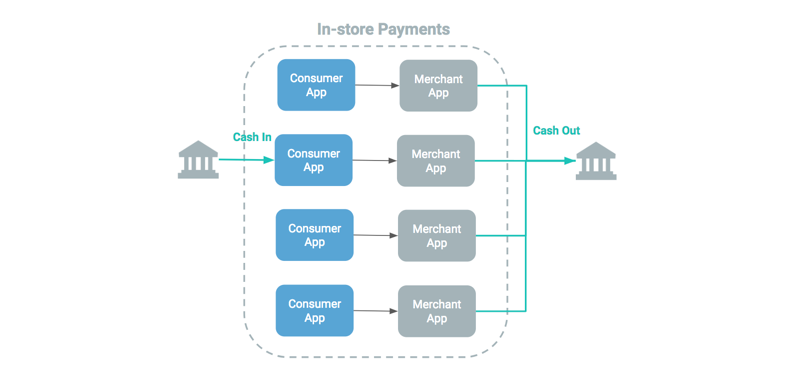
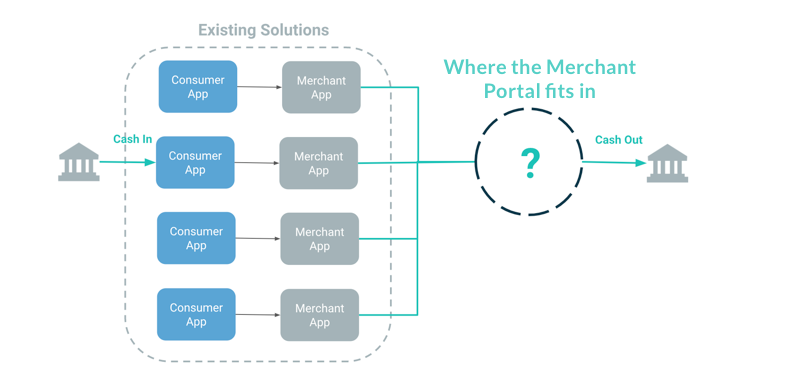
retail image

Changed region(s): [[0.0608, 0.0577, 0.881, 0.895], [0.1823, 0.9239, 0.6076, 0.9528], [0.6987, 0.5197, 0.7291, 0.5486]]

diff --git a/work/retail.html b/work/retail.html
@@ -92,15 +92,15 @@
       
       <h2 id="background">Background</h2>
       <p>MintChip is a digital currency that provides the underlying system to facilitate the exchange of value between two parties in real-time without intermediaries. <span><a href="https://www.youtube.com/watch?time_continue=5&v=RFYkREL6acU" target="_blank">Forbe has a video explaining how MintChip works.</a></span><br><br>
-      The nanopay retail solution consists of two parts: P2P payments between consumer apps and In-store payments between consumer and merchant apps.</p>
+      Back to 2016, the nanopay's retail solution bridging consuemrs and merchants was working fine, when the merchant only has one device. However, when more than one devices were adopted, problems start to arise. There is no connection between different devices, which causes repetitive work like cashing out, connecting bank account and manage transactions.</p>
       <figure>
-        <img src="../img/1-1-1.png" srcset="../img/1-1-1@2x.png 2x, ../img/1-1-1@3x.png 3x" alt="nanopay retail structure with one merchant app">
-        <figcaption>1-1-1 / nanopay retail structure in 2016</figcaption>
+        <img src="../img/1-1-1.png" srcset="../img/1-1-1@2x.png 2x, ../img/1-1-1@3x.png 3x" alt="nanopay retail structure with one and multiple merchant apps">
+        <figcaption>1-1-1 / nanopay retail solution with one device in 2016, and multiple devices in 2017</figcaption>
       </figure>
-      <p>When the merchant only has one device, it seems everything works fine. However, when more than one devices are adopted, problems start to arise. There is no connection between different devices, which causes repetitive work like cashing out, connecting bank account and manage transactions.</p>
+      <p>Therefore, we decided to create a gateway to connect all the merchant apps, to make the merchant's life easier.</p>
       <figure class="gap">
-        <img src="../img/1-1-2.png" srcset="../img/1-1-2@2x.png 2x, ../img/1-1-2@3x.png 3x" alt="nanopay retail structure with multiple devices">
-        <figcaption>1-1-2 / nanopay retail structure in 2017. Merchant devices including merchant apps on iPad, iPhone and Ingenico terminal</figcaption>
+        <img src="../img/1-1-2.png" srcset="../img/1-1-2@2x.png 2x, ../img/1-1-2@3x.png 3x" alt="The merchant portal is a gateway">
+        <figcaption>1-1-2 / Merchant devices including merchant apps on iPad, iPhone and Ingenico terminals. This question mark shows where the merchant portal should fit in.</figcaption>
       </figure>
       
       <h2 id="problem">A Deeper Dive into the Problem Space</h2>
